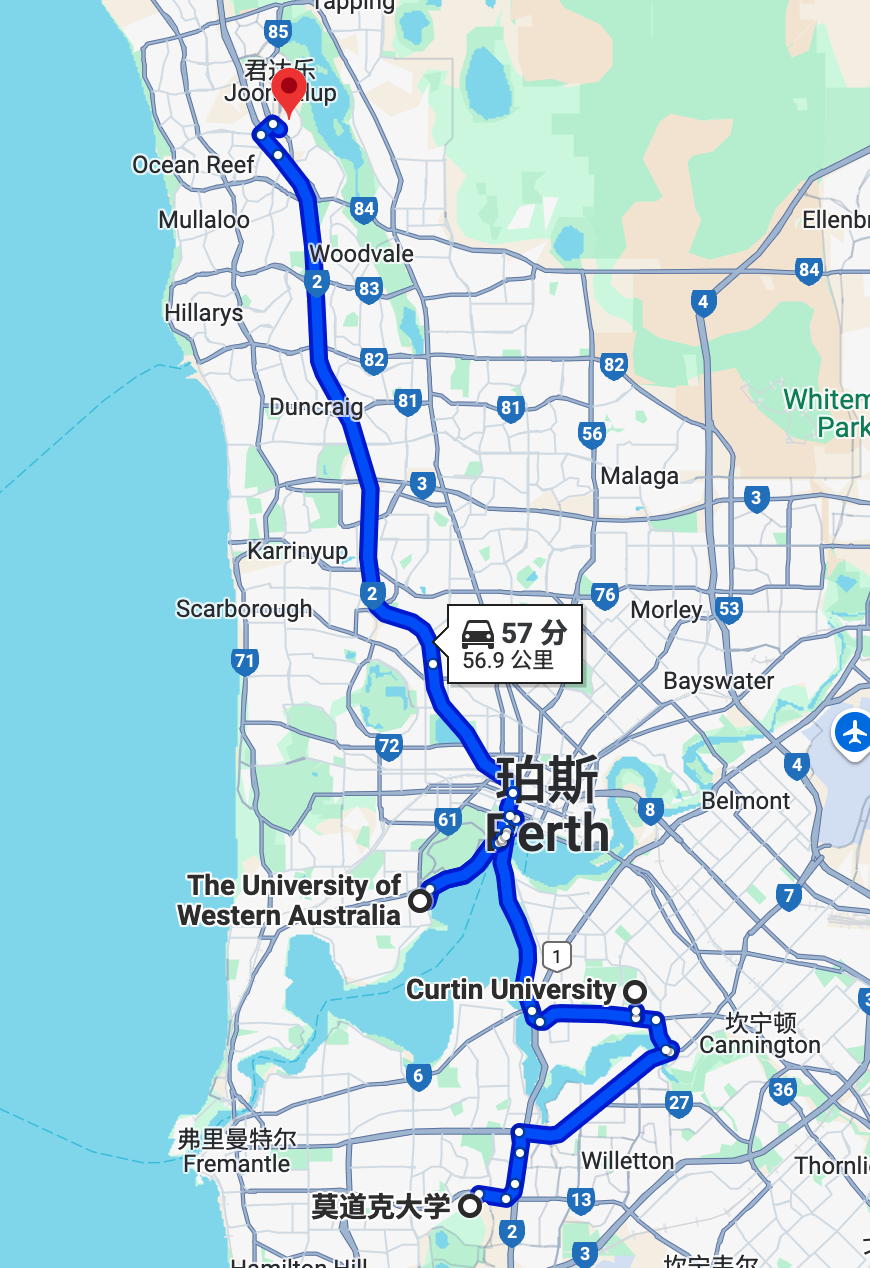
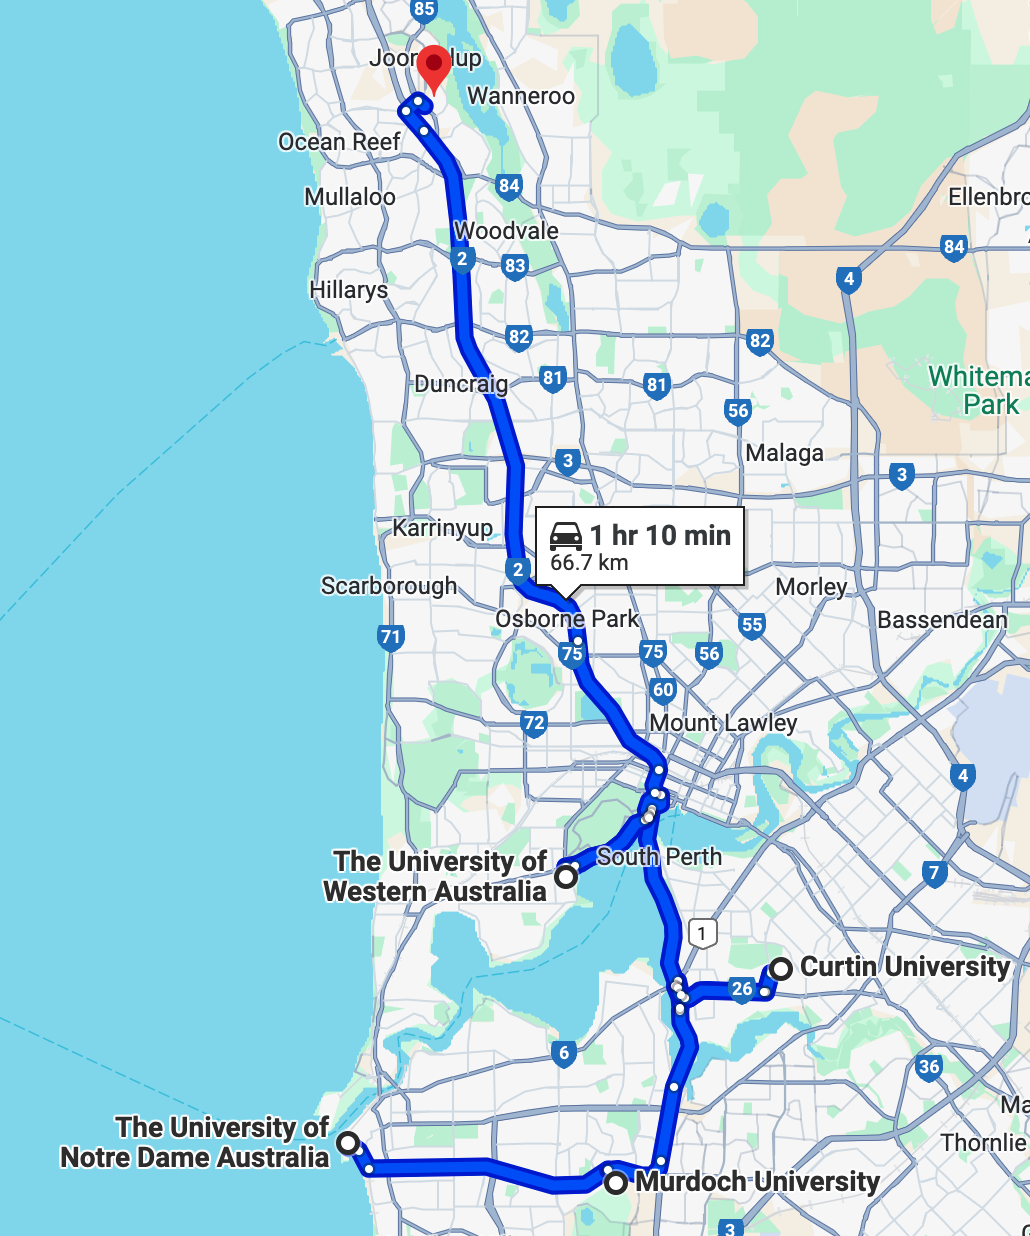
change image

diff --git a/_posts/2025-02-11-Introduction-to-the-University-of-Western-Australia.md b/_posts/2025-02-11-Introduction-to-the-University-of-Western-Australia.md
@@ -139,3 +139,17 @@ Bachelor of Education (Secondary) [官网](https://www.ecu.edu.au/degrees/course
 ![mud-t](/img/2025/feb/mud-t.png "mud-t")
 
 4年学费，大概是14万澳币,非常直接，给出4年的学费。
+
+
+### **澳大利亚圣母大学 (University of Notre Dame Australia)**
+
+认证课程11门。有两个校区：
+
+中学老师，Bachelor of Secondary Education
+ [官网](https://www.notredame.edu.au/programs/school-of-education/undergraduate/bachelor-of-secondary-education)
+
+学费
+
+![notre-t](/img/2025/feb/notre-t.png "notre-t")
+
+每年学费32,600澳元，通过奖学金减免后是：24,450澳元，4年的费用，大概就是10万澳币。
